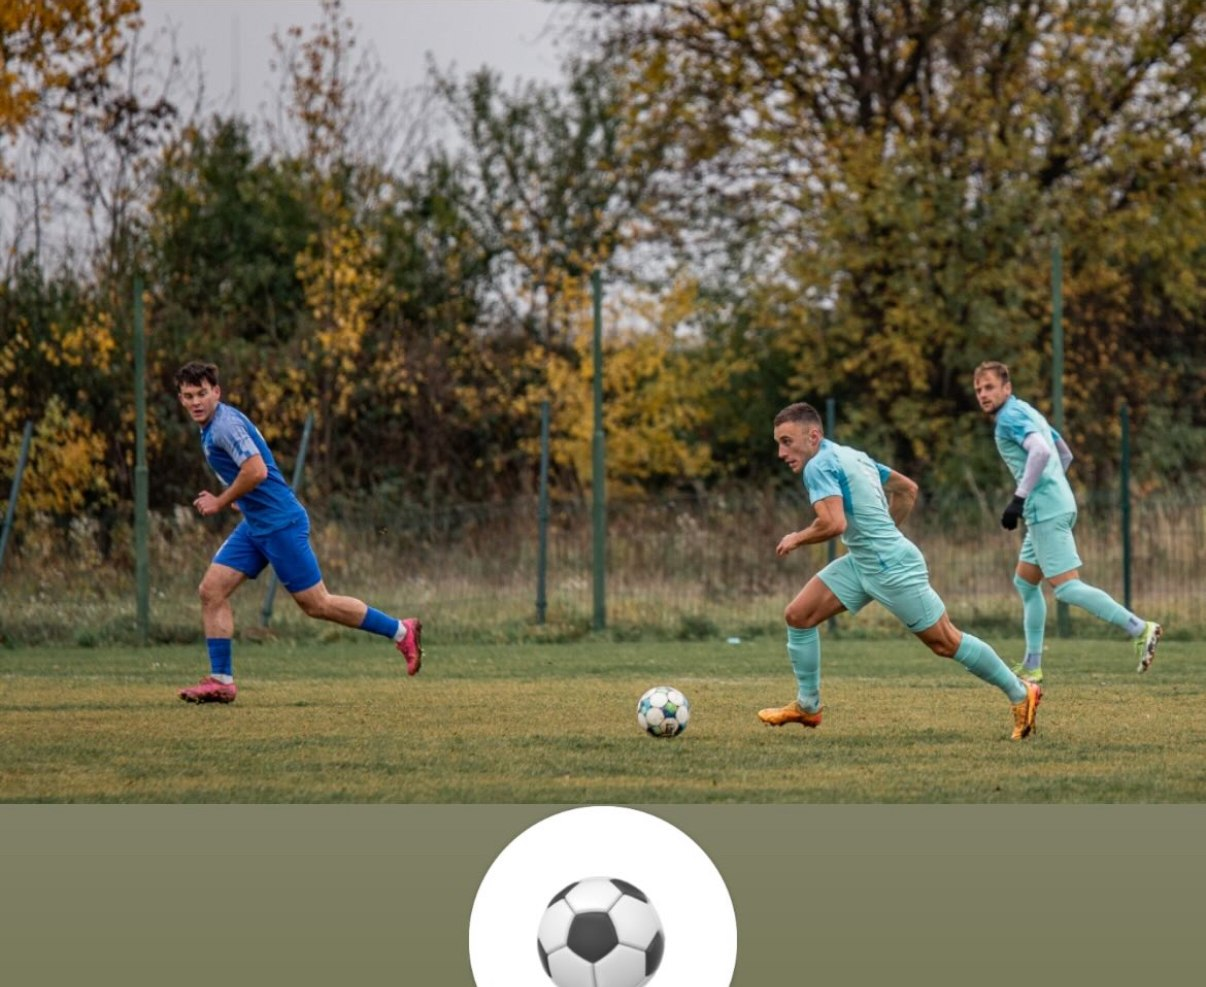
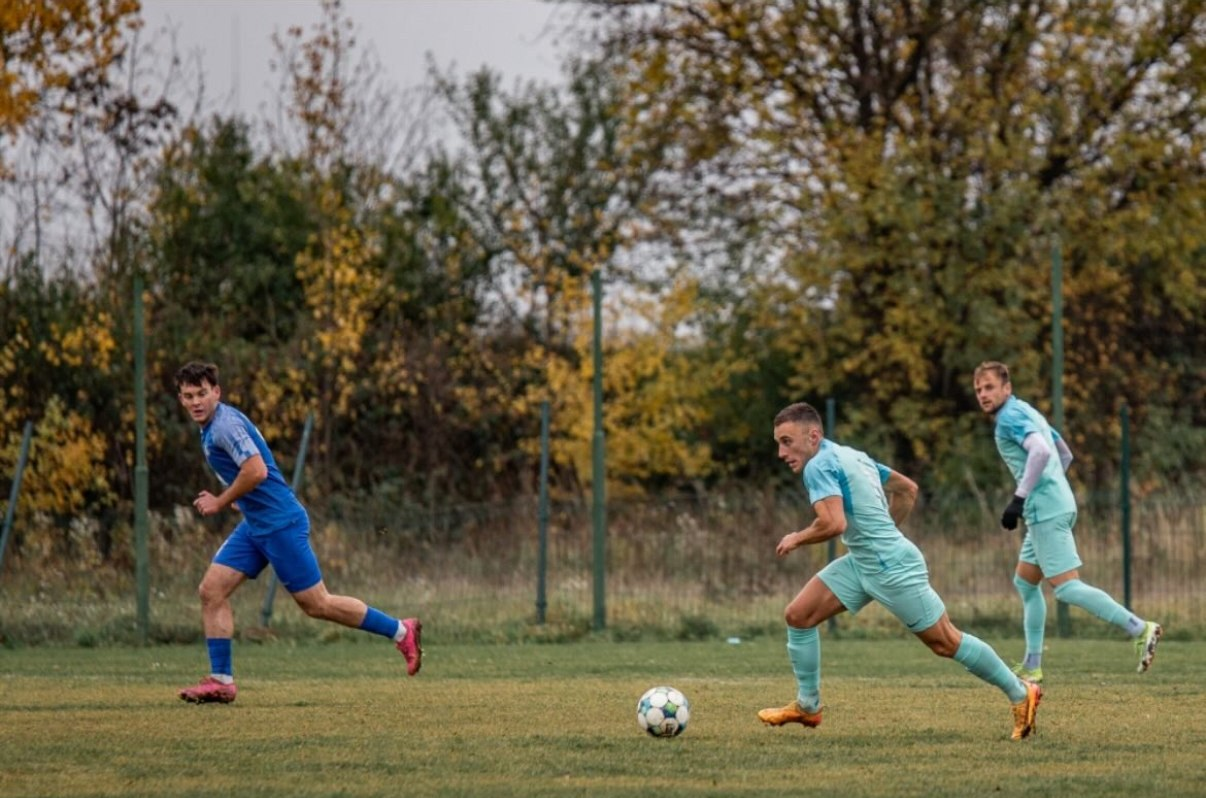
Crop story letterbox bands from match and running photos

diff --git a/index.html b/index.html
@@ -326,7 +326,7 @@ footer{border-top:1px solid var(--line);padding:38px 0;background:#fff}
     </div>
     <div class="rv">
       <div class="shot hero-shot">
-        <img src="match-prague.jpg" alt="Ivan Baisa shielding the ball in a match in Prague, wearing the navy number 11 shirt" width="1143" height="1346" decoding="async" loading="eager" fetchpriority="high">
+        <img src="match-prague.jpg" alt="Ivan Baisa shielding the ball in a match in Prague, wearing the navy number 11 shirt" width="1143" height="935" decoding="async" loading="eager" fetchpriority="high">
         <div class="chip chip-a"><span class="sq" style="background:rgba(11,99,214,.12)">⚽</span><span>142 goals<small>career total</small></span></div>
         <div class="chip chip-b"><span class="sq" style="background:rgba(34,201,242,.16)">🅰</span><span>103 assists<small>career total</small></span></div>
       </div>
@@ -421,7 +421,7 @@ footer{border-top:1px solid var(--line);padding:38px 0;background:#fff}
         </div>
       </div>
       <div class="sticky-shot rv">
-        <div class="shot"><img src="running.jpg" alt="Ivan Baisa driving forward with the ball on an autumn pitch" width="1206" height="987" decoding="async" loading="lazy"></div>
+        <div class="shot"><img src="running.jpg" alt="Ivan Baisa driving forward with the ball on an autumn pitch" width="1206" height="798" decoding="async" loading="lazy"></div>
         <p class="cap">Carrying the ball out of midfield — the part of the game he'd play all day if someone let him.</p>
       </div>
     </div>
